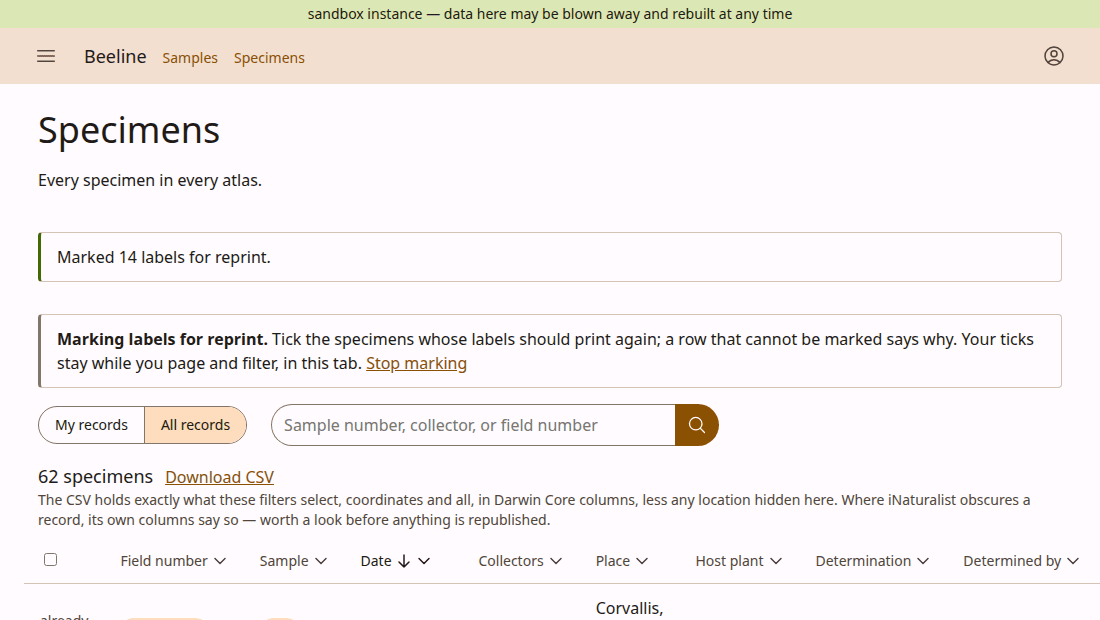
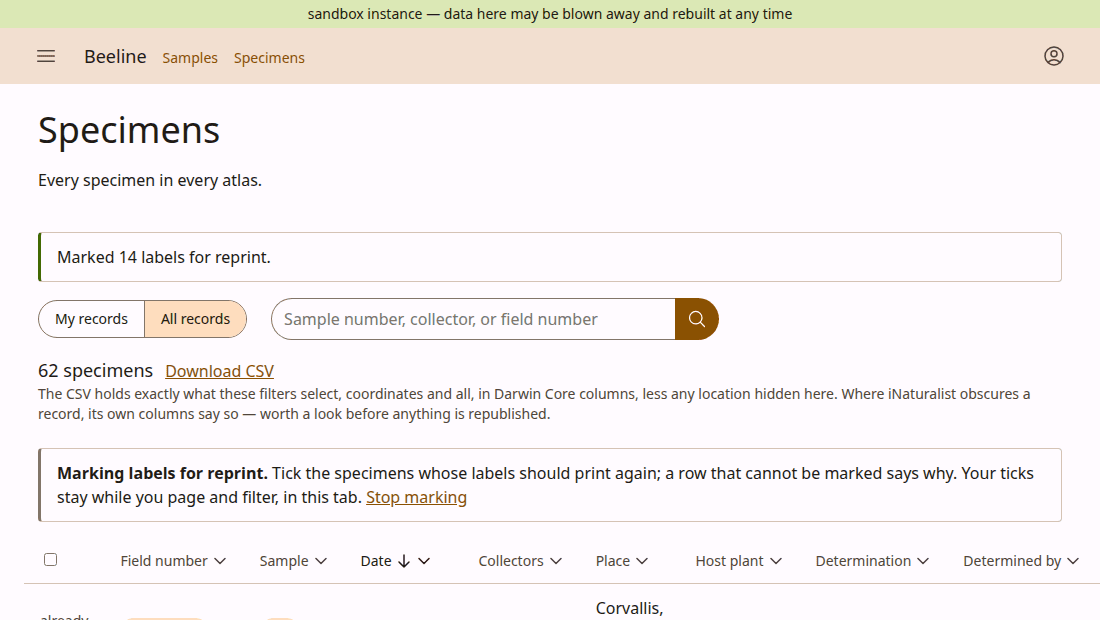
Put the bulk actions immediately above the table they act on (beeline-1kb.23)
Peter, 2026-10-31. The action button, and in the mode the note that takes
its place, now sit below the search, filters and count, next to the rows.

Changed region(s): [[0.0309, 0.4597, 0.9582, 0.8581]]

diff --git a/src/app/views/listings.tsx b/src/app/views/listings.tsx
@@ -765,8 +765,9 @@ export function SpecimenListing(
     <>
       <PageHeader title={copy.heading} lede={lede(copy, query, atlases)} />
       {reprinted !== null && <Callout tone="success">{copy.bulk.done(reprinted.requested, reprinted.of)}</Callout>}
-      {marking ? <BulkModeNote m={m} path={path} query={query} /> : admin && <BulkActions m={m} path={path} query={query} />}
       <Toolbar copy={copy} path={path} props={props} />
+      {/* Immediately above the table, since they act on its rows (Peter, 2026-10-31). */}
+      {marking ? <BulkModeNote m={m} path={path} query={query} /> : admin && <BulkActions m={m} path={path} query={query} />}
       {page.rows.length === 0 ? (
         <EmptyState heading={copy.emptyHeading}>{isFiltered(query) ? copy.emptyFiltered : copy.emptyMine}</EmptyState>
       ) : (
